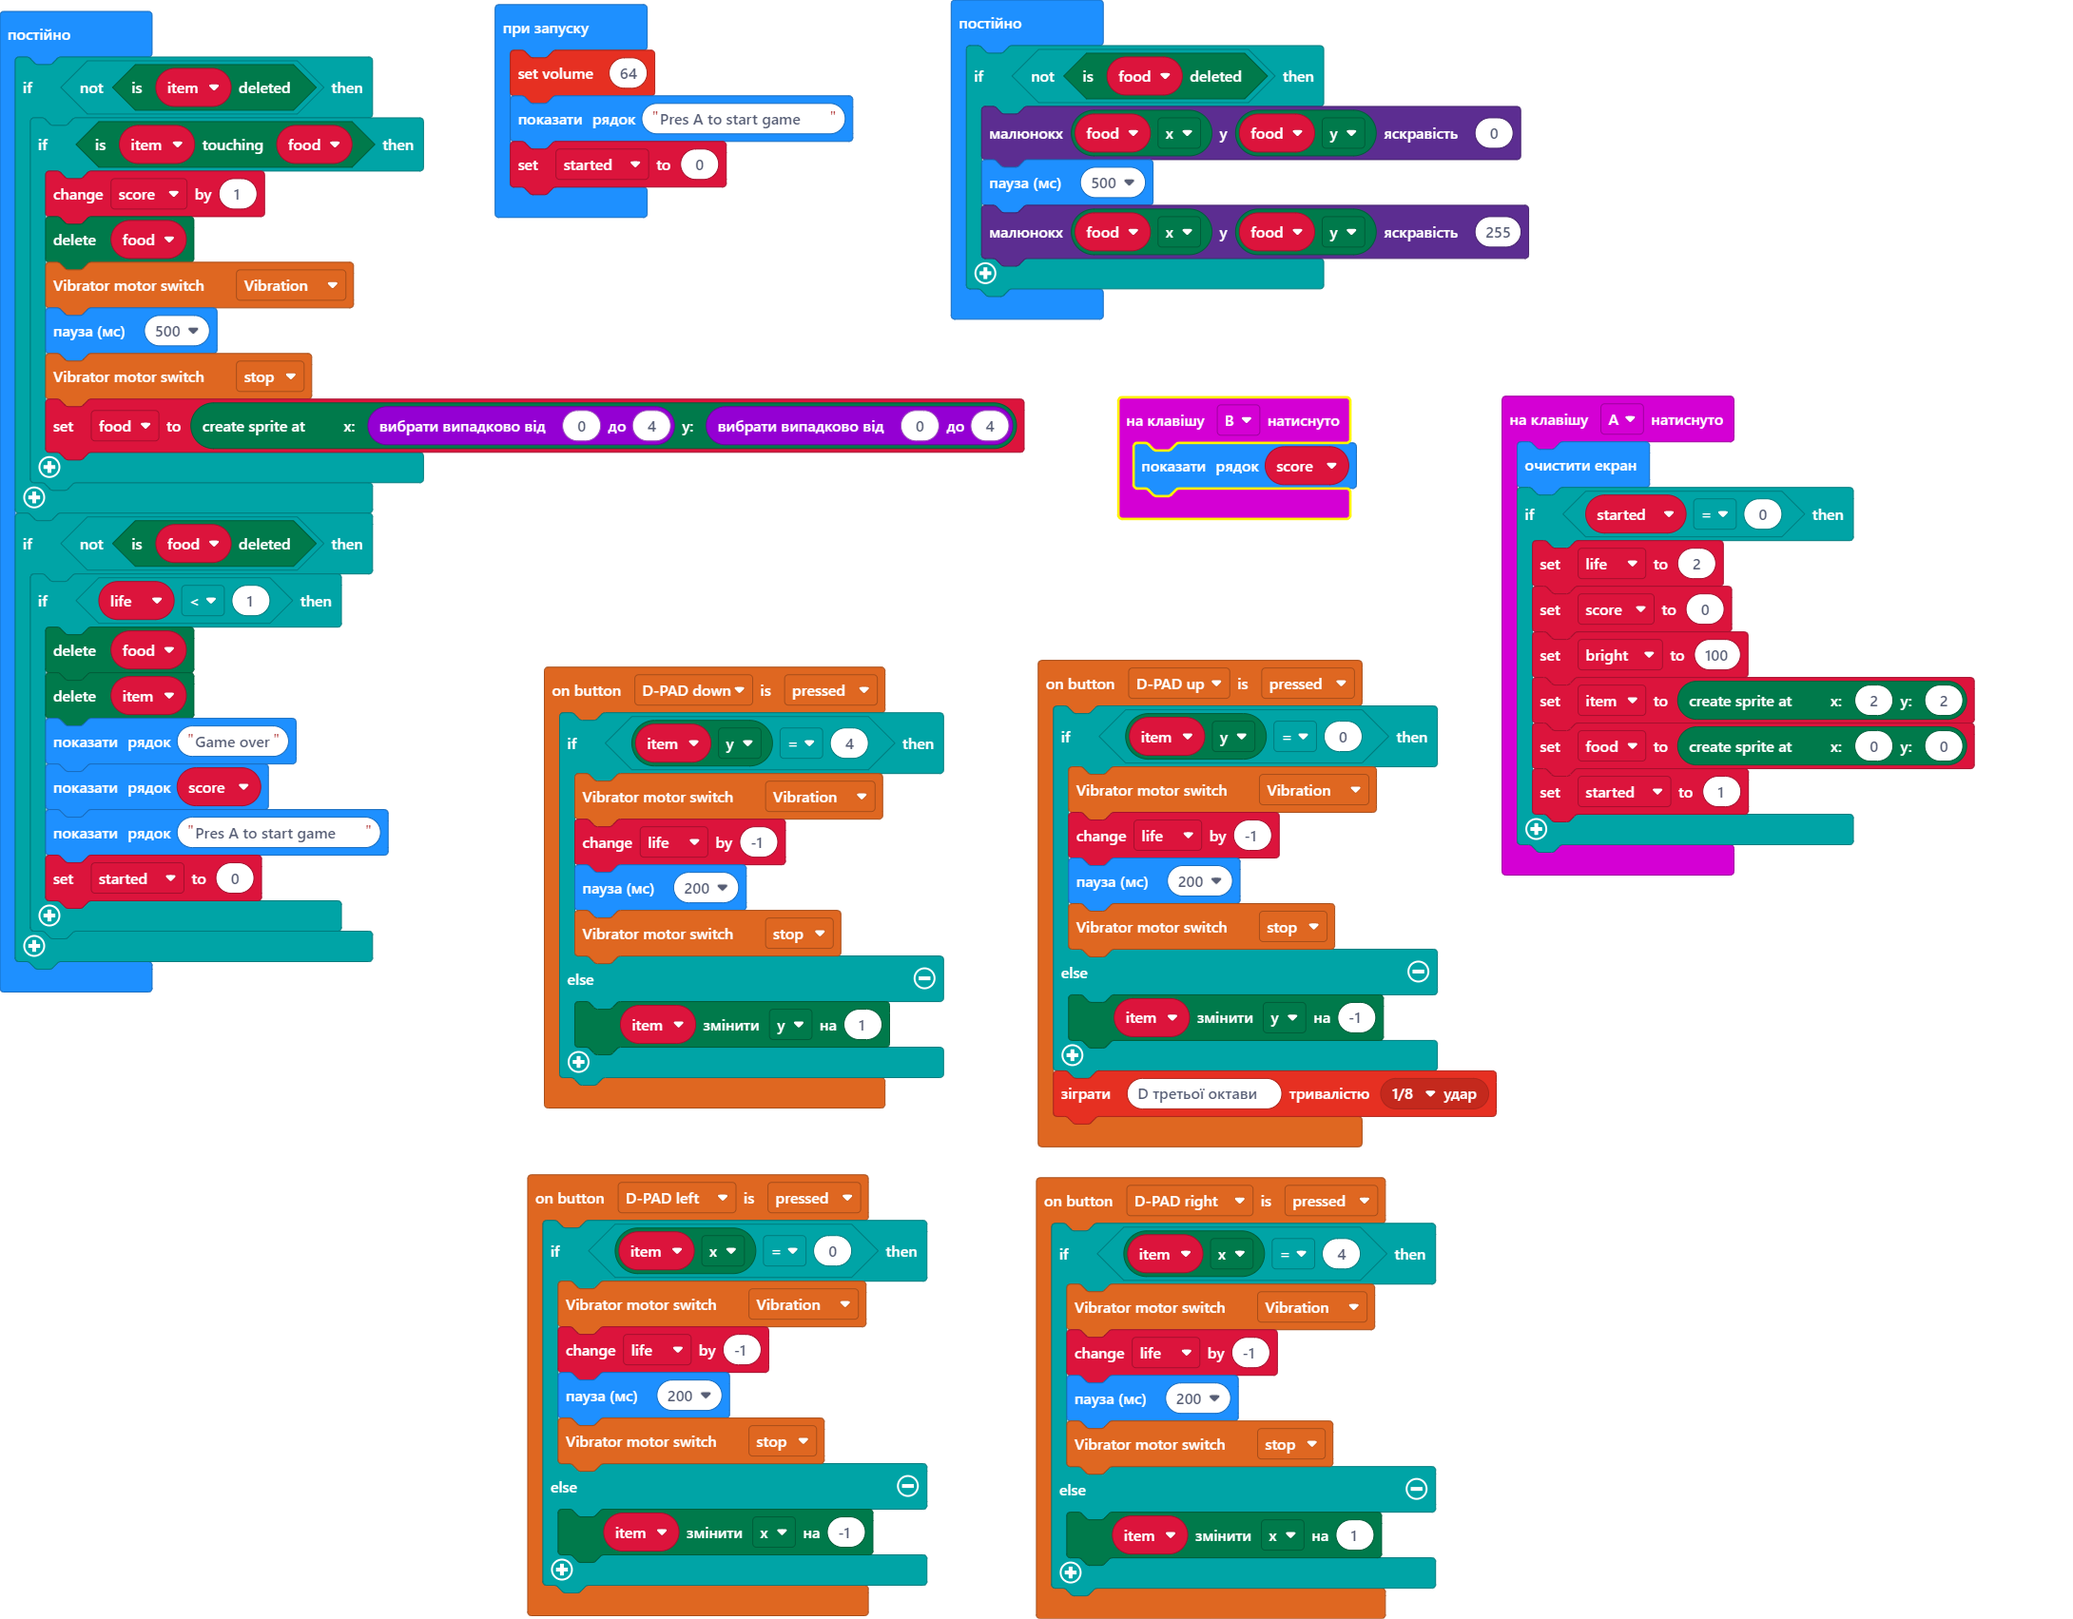
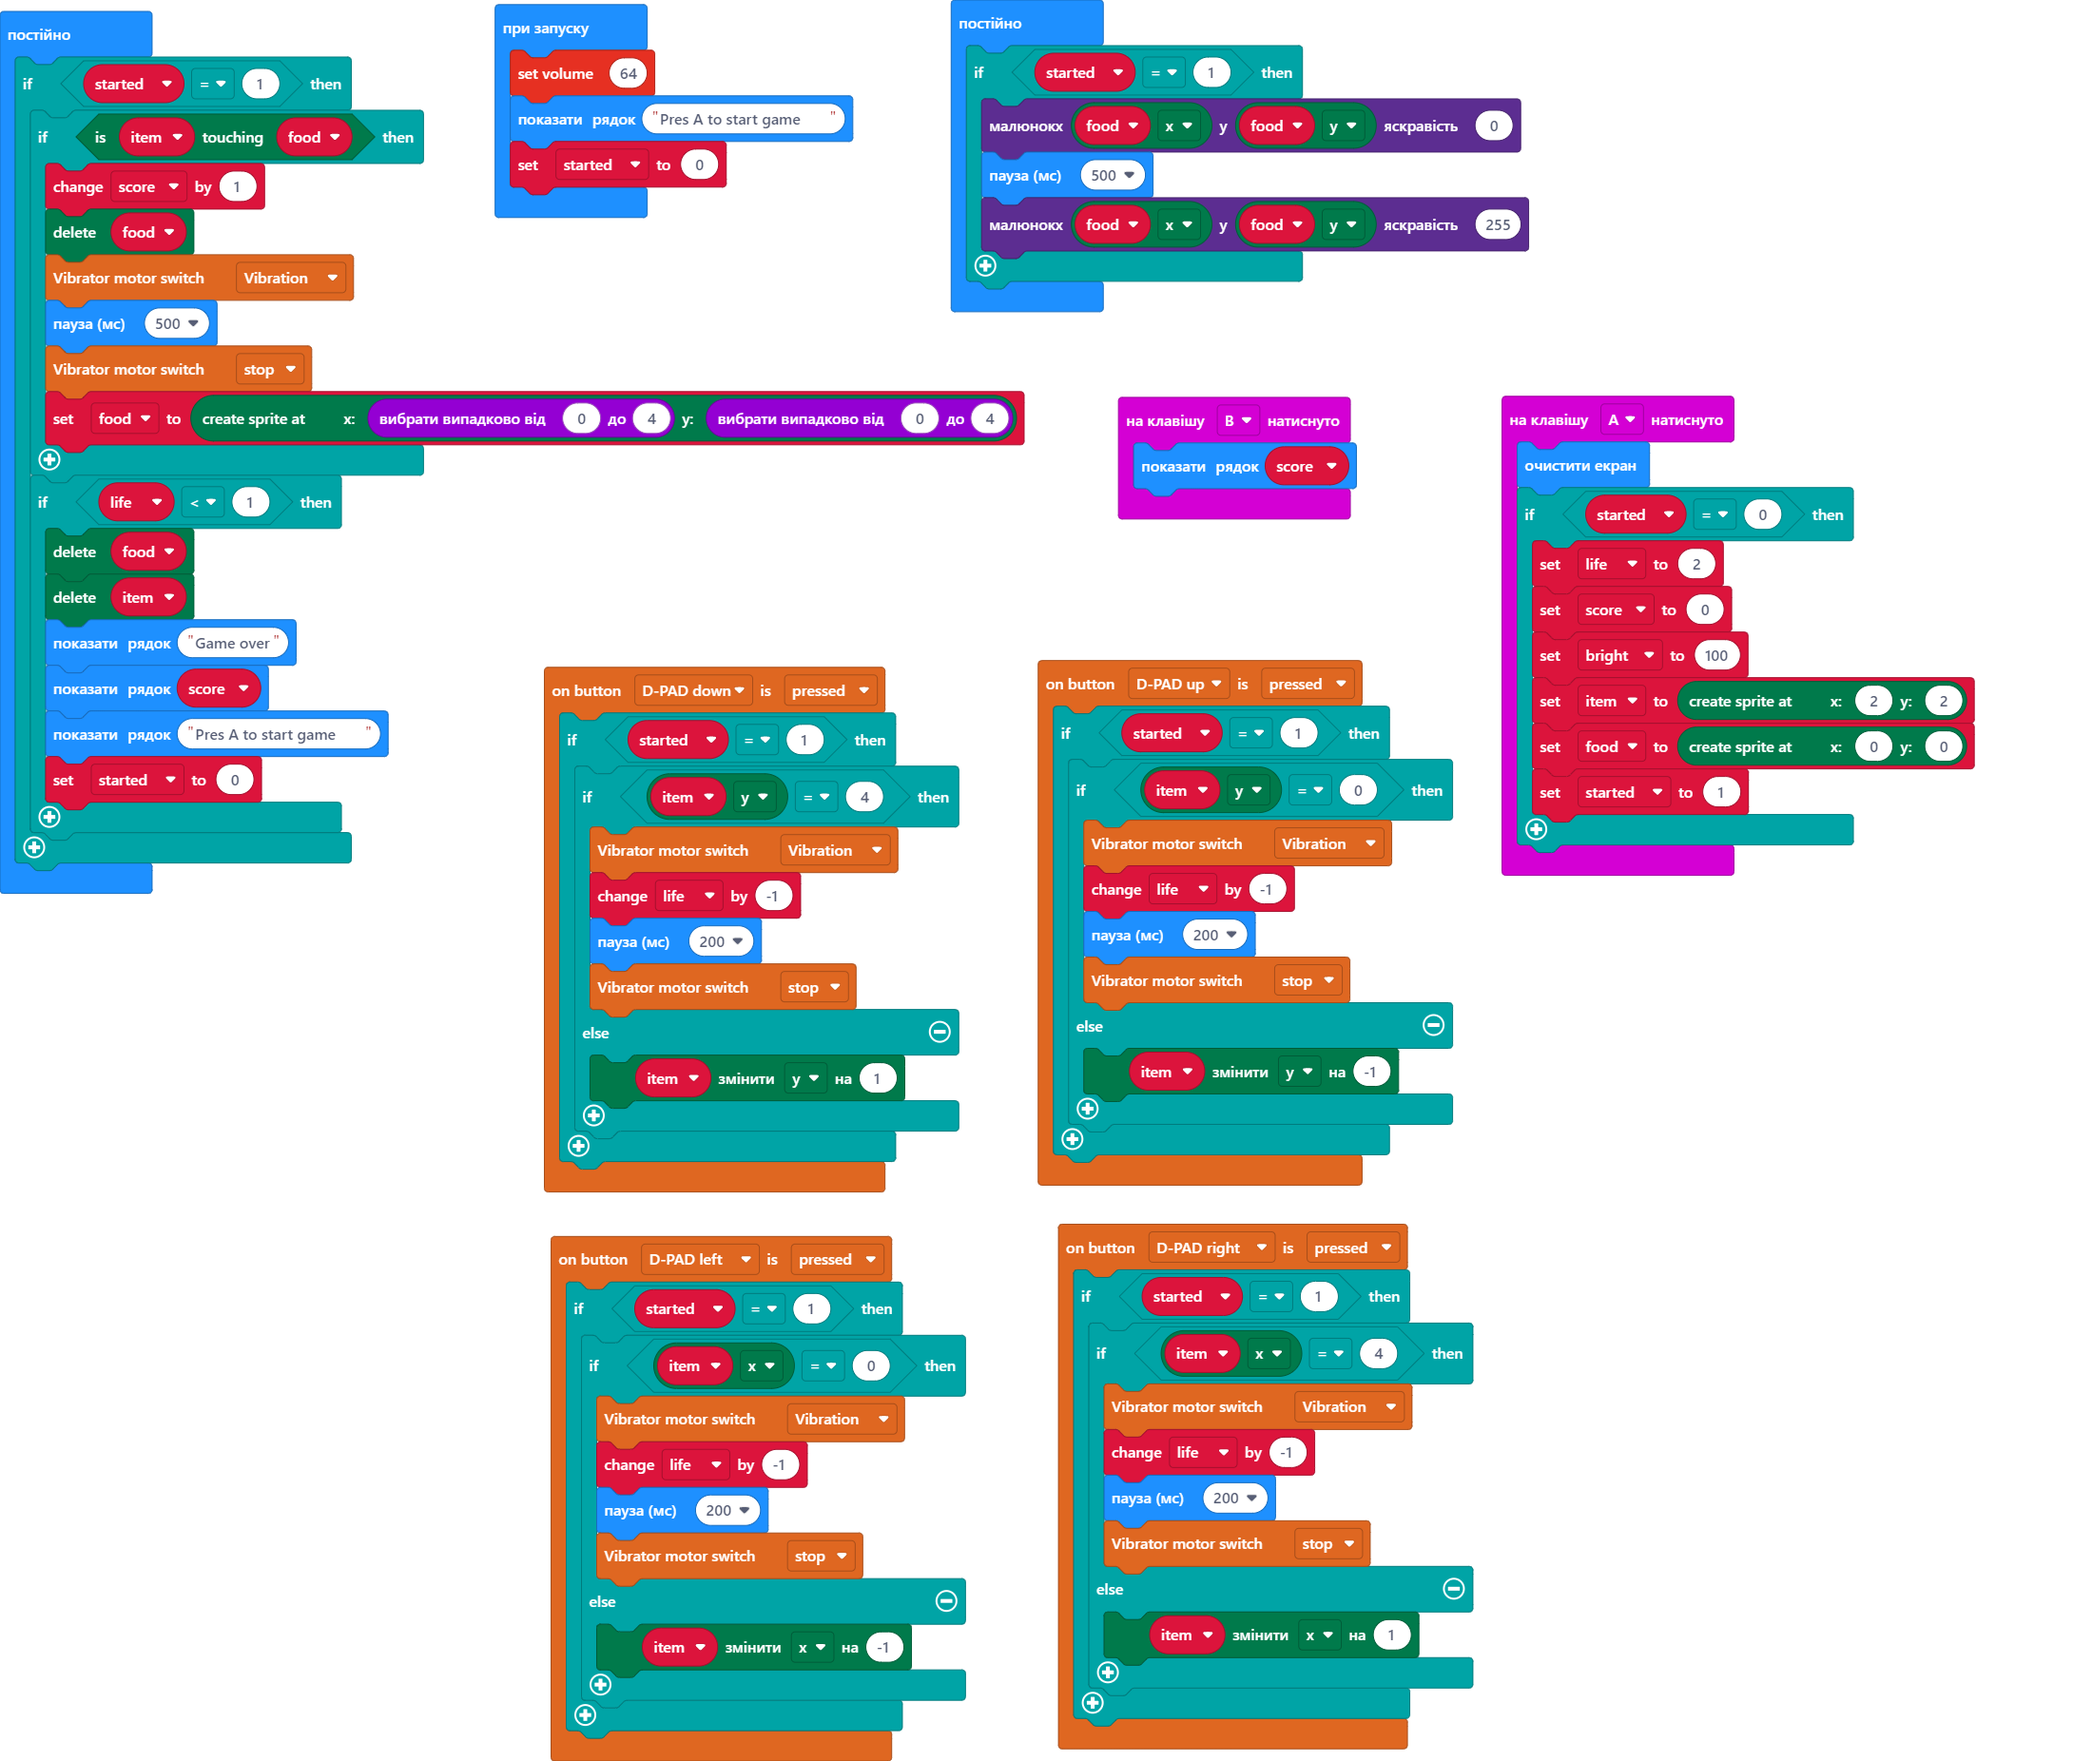
Update main.blocks, main.ts

diff --git a/main.ts b/main.ts
@@ -1,11 +1,13 @@
 gamePad.onEvent(GamerBitPin.P14, GamerBitEvent.Down, function () {
-    if (item.get(LedSpriteProperty.X) == 0) {
-        gamePad.vibratorMotor(gamePad.Vibrator.V1)
-        life += -1
-        basic.pause(200)
-        gamePad.vibratorMotor(gamePad.Vibrator.V0)
-    } else {
-        item.change(LedSpriteProperty.X, -1)
+    if (started == 1) {
+        if (item.get(LedSpriteProperty.X) == 0) {
+            gamePad.vibratorMotor(gamePad.Vibrator.V1)
+            life += -1
+            basic.pause(200)
+            gamePad.vibratorMotor(gamePad.Vibrator.V0)
+        } else {
+            item.change(LedSpriteProperty.X, -1)
+        }
     }
 })
 input.onButtonPressed(Button.A, function () {
@@ -20,35 +22,40 @@ input.onButtonPressed(Button.A, function () {
     }
 })
 gamePad.onEvent(GamerBitPin.P15, GamerBitEvent.Down, function () {
-    if (item.get(LedSpriteProperty.X) == 4) {
-        gamePad.vibratorMotor(gamePad.Vibrator.V1)
-        life += -1
-        basic.pause(200)
-        gamePad.vibratorMotor(gamePad.Vibrator.V0)
-    } else {
-        item.change(LedSpriteProperty.X, 1)
+    if (started == 1) {
+        if (item.get(LedSpriteProperty.X) == 4) {
+            gamePad.vibratorMotor(gamePad.Vibrator.V1)
+            life += -1
+            basic.pause(200)
+            gamePad.vibratorMotor(gamePad.Vibrator.V0)
+        } else {
+            item.change(LedSpriteProperty.X, 1)
+        }
     }
 })
 gamePad.onEvent(GamerBitPin.P13, GamerBitEvent.Down, function () {
-    if (item.get(LedSpriteProperty.Y) == 4) {
-        gamePad.vibratorMotor(gamePad.Vibrator.V1)
-        life += -1
-        basic.pause(200)
-        gamePad.vibratorMotor(gamePad.Vibrator.V0)
-    } else {
-        item.change(LedSpriteProperty.Y, 1)
+    if (started == 1) {
+        if (item.get(LedSpriteProperty.Y) == 4) {
+            gamePad.vibratorMotor(gamePad.Vibrator.V1)
+            life += -1
+            basic.pause(200)
+            gamePad.vibratorMotor(gamePad.Vibrator.V0)
+        } else {
+            item.change(LedSpriteProperty.Y, 1)
+        }
     }
 })
 gamePad.onEvent(GamerBitPin.P8, GamerBitEvent.Down, function () {
-    if (item.get(LedSpriteProperty.Y) == 0) {
-        gamePad.vibratorMotor(gamePad.Vibrator.V1)
-        life += -1
-        basic.pause(200)
-        gamePad.vibratorMotor(gamePad.Vibrator.V0)
-    } else {
-        item.change(LedSpriteProperty.Y, -1)
+    if (started == 1) {
+        if (item.get(LedSpriteProperty.Y) == 0) {
+            gamePad.vibratorMotor(gamePad.Vibrator.V1)
+            life += -1
+            basic.pause(200)
+            gamePad.vibratorMotor(gamePad.Vibrator.V0)
+        } else {
+            item.change(LedSpriteProperty.Y, -1)
+        }
     }
-    music.playTone(587, music.beat(BeatFraction.Eighth))
 })
 input.onButtonPressed(Button.B, function () {
     basic.showString("" + (score))
@@ -63,7 +70,7 @@ music.setVolume(64)
 basic.showString("Pres A to start game")
 started = 0
 basic.forever(function () {
-    if (!(item.isDeleted())) {
+    if (started == 1) {
         if (item.isTouching(food)) {
             score += 1
             food.delete()
@@ -72,8 +79,6 @@ basic.forever(function () {
             gamePad.vibratorMotor(gamePad.Vibrator.V0)
             food = game.createSprite(randint(0, 4), randint(0, 4))
         }
-    }
-    if (!(food.isDeleted())) {
         if (life < 1) {
             food.delete()
             item.delete()
@@ -85,7 +90,7 @@ basic.forever(function () {
     }
 })
 basic.forever(function () {
-    if (!(food.isDeleted())) {
+    if (started == 1) {
         led.plotBrightness(food.get(LedSpriteProperty.X), food.get(LedSpriteProperty.Y), 0)
         basic.pause(500)
         led.plotBrightness(food.get(LedSpriteProperty.X), food.get(LedSpriteProperty.Y), 255)
